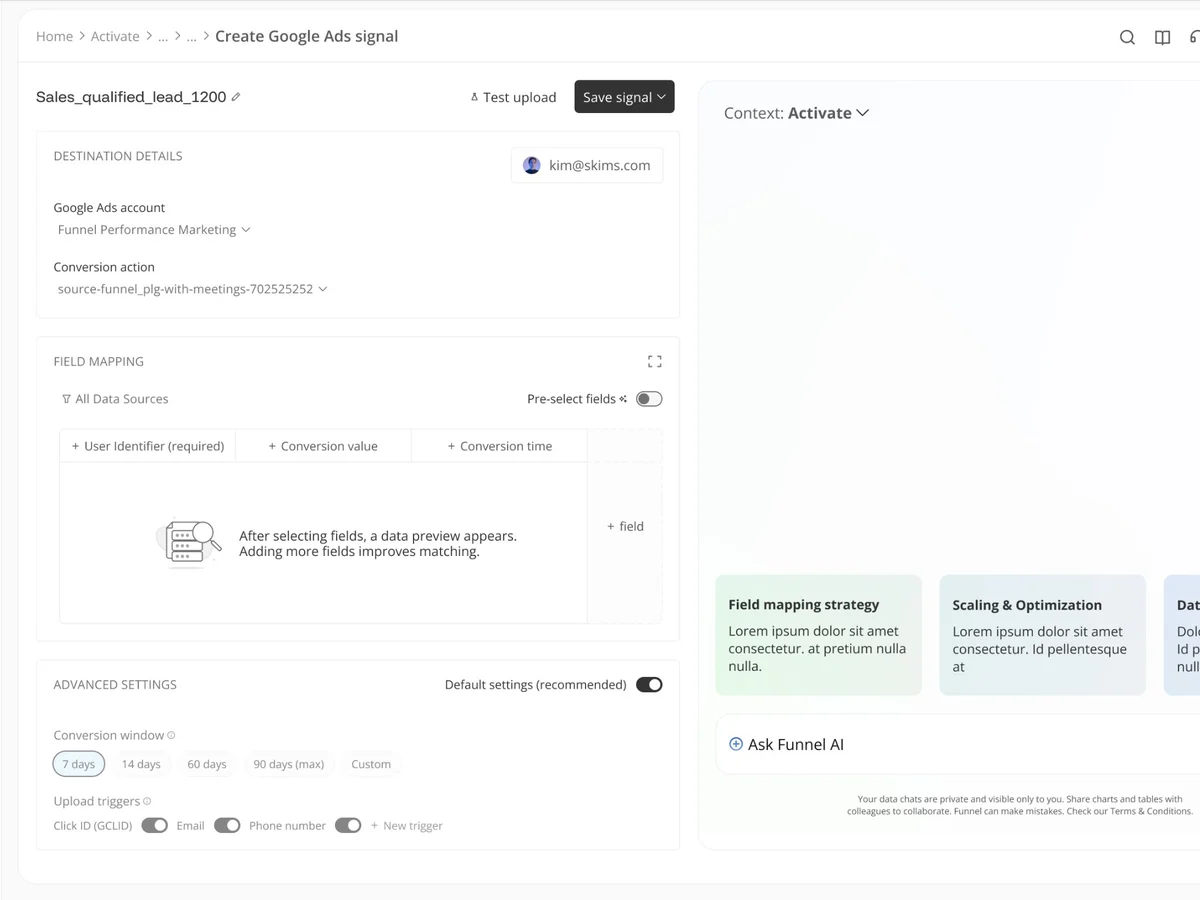
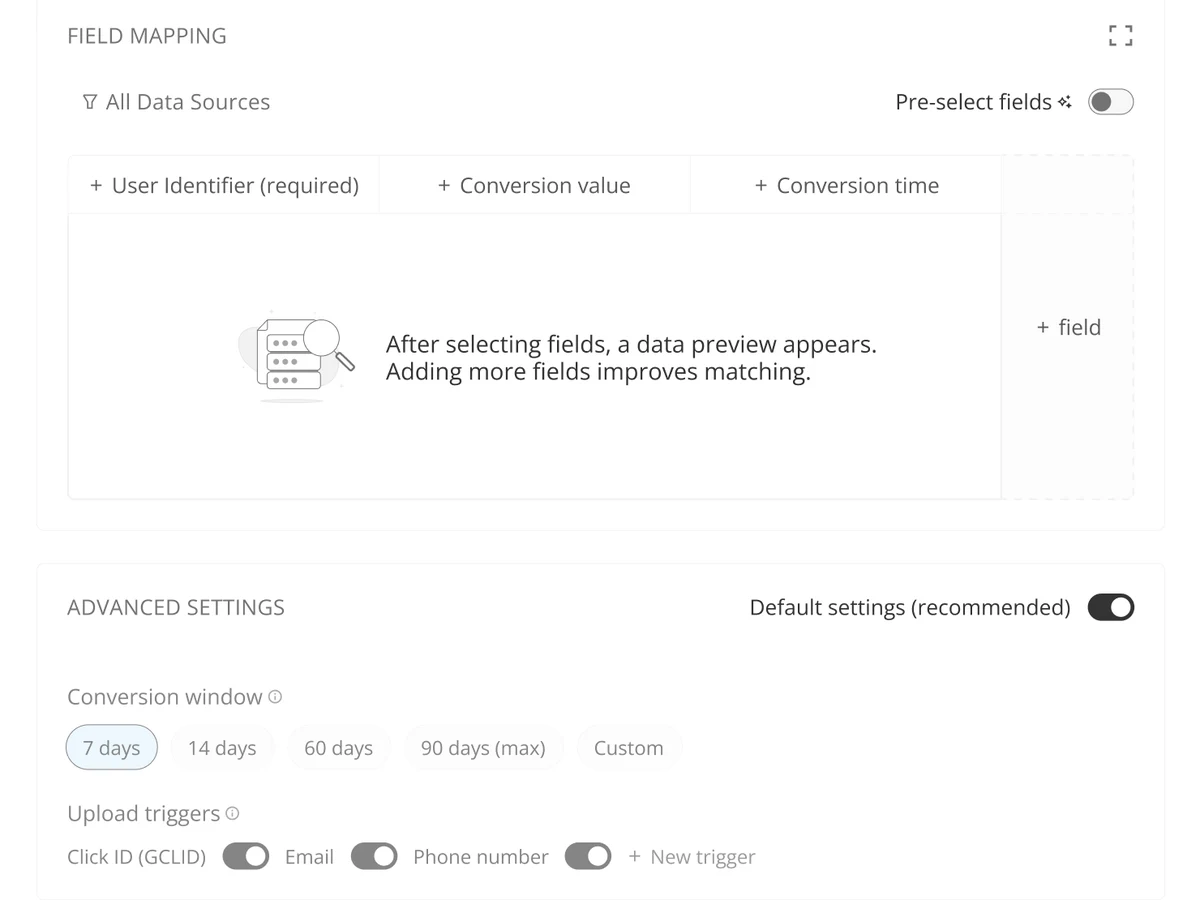
New Activate thumbnail
Claude-Session: https://claude.ai/code/session_01BATPRoECTHL4PcAcJy8jfd

diff --git a/assets/js/content.js b/assets/js/content.js
@@ -63,7 +63,7 @@ window.SITE = {
       year: "2025",
       line: "Building a 0 to 1 product to solve signal loss for marketers",
       tags: ["0 to 1", "B2B SaaS", "Integrations"],
-      thumb: { src: "images/activate/thumb.webp", label: "Creating a Google Ads signal in Activate" },
+      thumb: { src: "images/activate/thumb.webp", label: "Field mapping and advanced settings in Activate" },
       title: "Activate.",
       subtitle: "Building a 0 to 1 product to solve signal loss for marketers.",
       context: ["Funnel", "Launched 2025", "About a year", "Product Designer", "1 PM · 4 engineers"],
